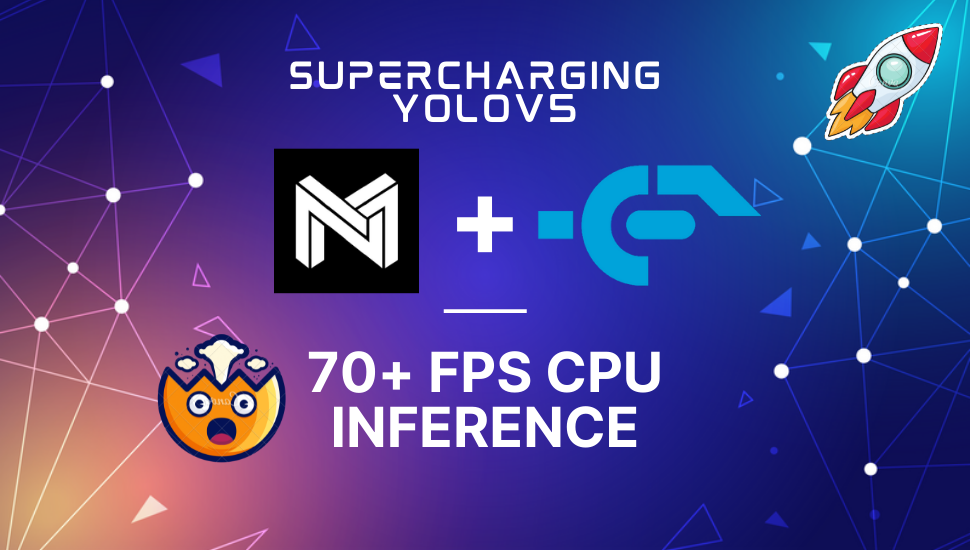
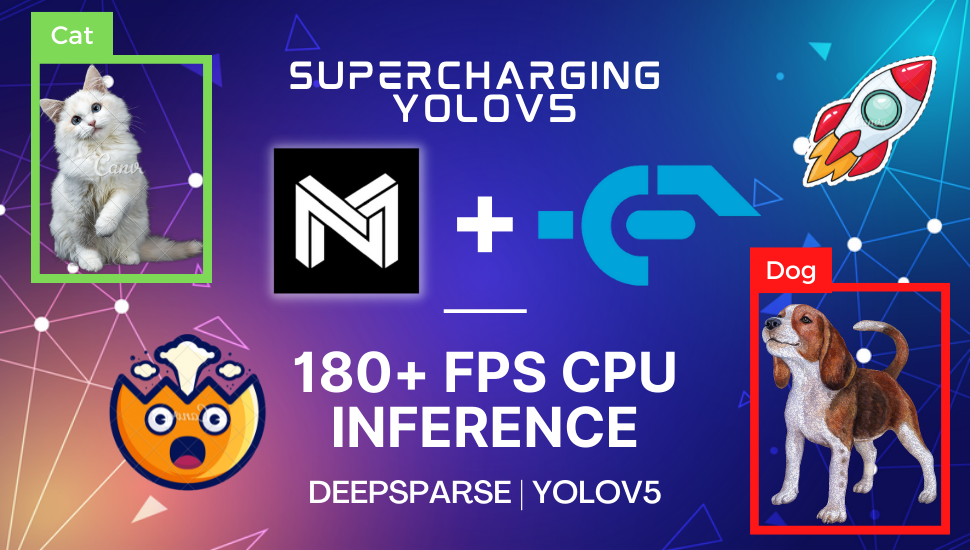
update title and imgs

diff --git a/content/portfolio/supercharging_yolov5/index.md b/content/portfolio/supercharging_yolov5/index.md
@@ -1,5 +1,5 @@
 ---
-title: "Supercharging YOLOv5: How I get 70+ FPS Inference on CPUs"
+title: "Supercharging YOLOv5: How I get 180+ FPS Inference on CPUs with only 4 Cores"
 date: 2022-01-19T11:00:15+08:00
 featureImage: images/portfolio/supercharging_yolov5/thumbnail.gif
 postImage: images/portfolio/supercharging_yolov5/post_image.png
@@ -17,6 +17,7 @@ This blog post is still a work in progress. If you require further clarification
 {{< /notice >}}
 
 ### 🔥 Motivation
+So you've trained the most popular object detection model - YOLOv5 and got some impressive results.
 
 ### ⛳ Baseline YOLOv5 inference
 
